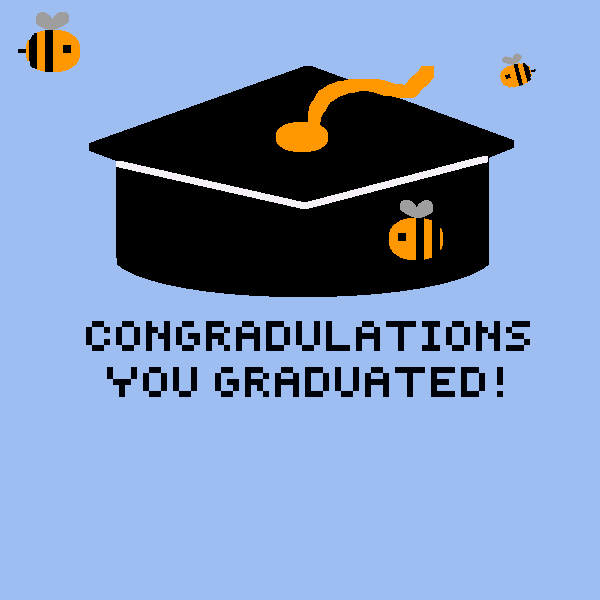
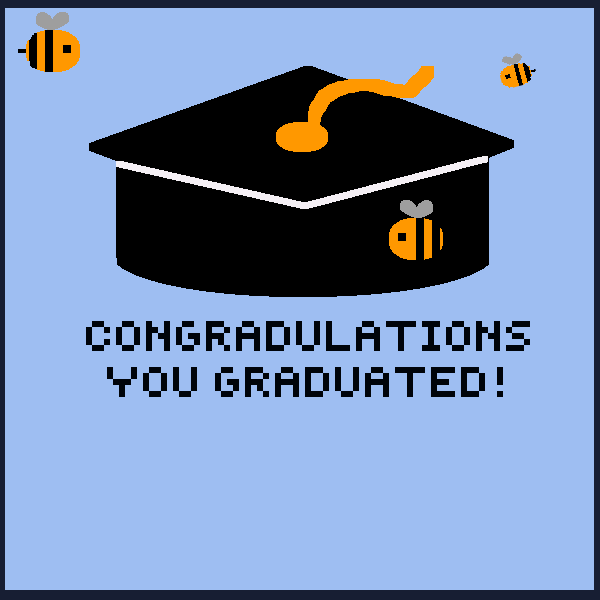
Welcome and end screen fixed
Still adding in home button in game screen

Changed region(s): [[0.0, 0.0, 1.0, 1.0]]

diff --git a/Instructions.html b/Instructions.html
@@ -12,15 +12,9 @@
 </head>
 <body>
     <div>
-        <h1 id="Title">Instructions</h1>
-        <p>Welcome to the Maze Game! Congratulations You've been accepted into Georgia Tech!
-            You’re super stoked to begin your journey and begin to prepare for the first day of classes. At this stage, the player arrives at the first level of the maze.
-             Throughout the twists and turns, the player will encounter challenges! 
-      </p>
-        <p>The challenges a student will run into play into common challenges a student may face in the first, second, third, and fourth year. 
-            For example, a player may run into something like "Oh no! You gained freshman 15." or "Waitlisted for a class, position: 230." or
-             "Graduation delayed!".</p>
-        <p>Of course, running into challenges in college is inevitable, so these challenges act as more of a funny milestone that just frequently reflects the common challenges Georgia Tech students go through. Collect all milestones for a funny achievement!</p>
+        <div class = "back">
+          <img src = "/Assets/Instructions .png" alt = "background">
+        </div>
         <div class = "buttons">
           <a href = "index.html"><button id="start">Go Back</button></a>
         </div>

diff --git a/endScreen.html b/endScreen.html
@@ -1,25 +1,18 @@
   <!DOCTYPE html>
   <html lang="en">
     <head>
-      <link rel="stylesheet" href="style.css">
+      <link rel="stylesheet" href="end.css">
       <meta charset="UTF-8">
       <script src="script.js"></script>
       <title>htmlMaze</title>
     </head>
     <body onload="onLoad();">
       <h2>
-        <center>Congrats on graduating!</center>
       </h2>
-      <canvas id="mainForm"></canvas>
-      <div id="settings">
-        <table>
-          <tbody>
-            <tr>
-              <td><input id="playAgain" type="button" value="Play Again" /></td>
-            </tr>
-          </tbody>
-        </table>
+      <div class = "back">
+        <img src = "/Assets/EndScreen.png" alt = "background">
       </div>
+        <a href = "gameScreen.html" id="start">Play Again!</a>
     </body>
   </html>
   

diff --git a/script.js b/script.js
@@ -345,9 +345,9 @@ function checkWin() {
     if (currentLevel < 4) {
       toggleVisablity("nextLevel");
     } else {
+      document.location.href = "endScreen.html";
       toggleVisablity("playAgain");
     }
-
     document.removeEventListener("keydown", onKeyDown);
   }
 }
@@ -360,7 +360,8 @@ function nextLevel() {
   } else {
     currentLevel = 1;
     events = new Events();
-    toggleVisablity("playAgain");
+    document.getElementById("playAgain").style.visibility == "visible";
+    //toggleVisablity("playAgain");
   }
 
   document.getElementById("level").innerHTML = "Level " + currentLevel;

diff --git a/end.css b/end.css
@@ -1,0 +1,30 @@
+body,html {
+    font-family: 'VT323', monospace;
+    background-color: #bac4ff;
+}
+.back {
+    text-align: center;
+    position: relative;
+    border: 5px rgb(13, 23, 41);
+}
+
+.divider {
+    position: relative;
+    width: 50px;
+    height:auto;
+    display:inline-block;
+}
+#start {
+    margin-left: 42%;
+    margin-right: auto;
+    font-size: 20px;
+    font-weight: 200;
+    letter-spacing: 1px;
+    padding: 13px 50px 13px;
+    outline: 0;
+    border: 9px solid rgb(11, 27, 43);
+    cursor: pointer;
+    background-color: #dcbaff;
+  }
+  
+ 

diff --git a/style.css b/style.css
@@ -84,3 +84,9 @@ body {
   left: 48%;
   top: 70%;
 }
+.buttons {
+  position: relative;
+  text-align: center;
+  width: 20%;
+  height: 10%;
+}

diff --git a/gameScreen.html b/gameScreen.html
@@ -42,5 +42,6 @@
       </table>
     </div>
     <h2 id="level"></h2>
+    <a href= "index.html" id = "main-menu">Home</a>
   </body>
 </html>
